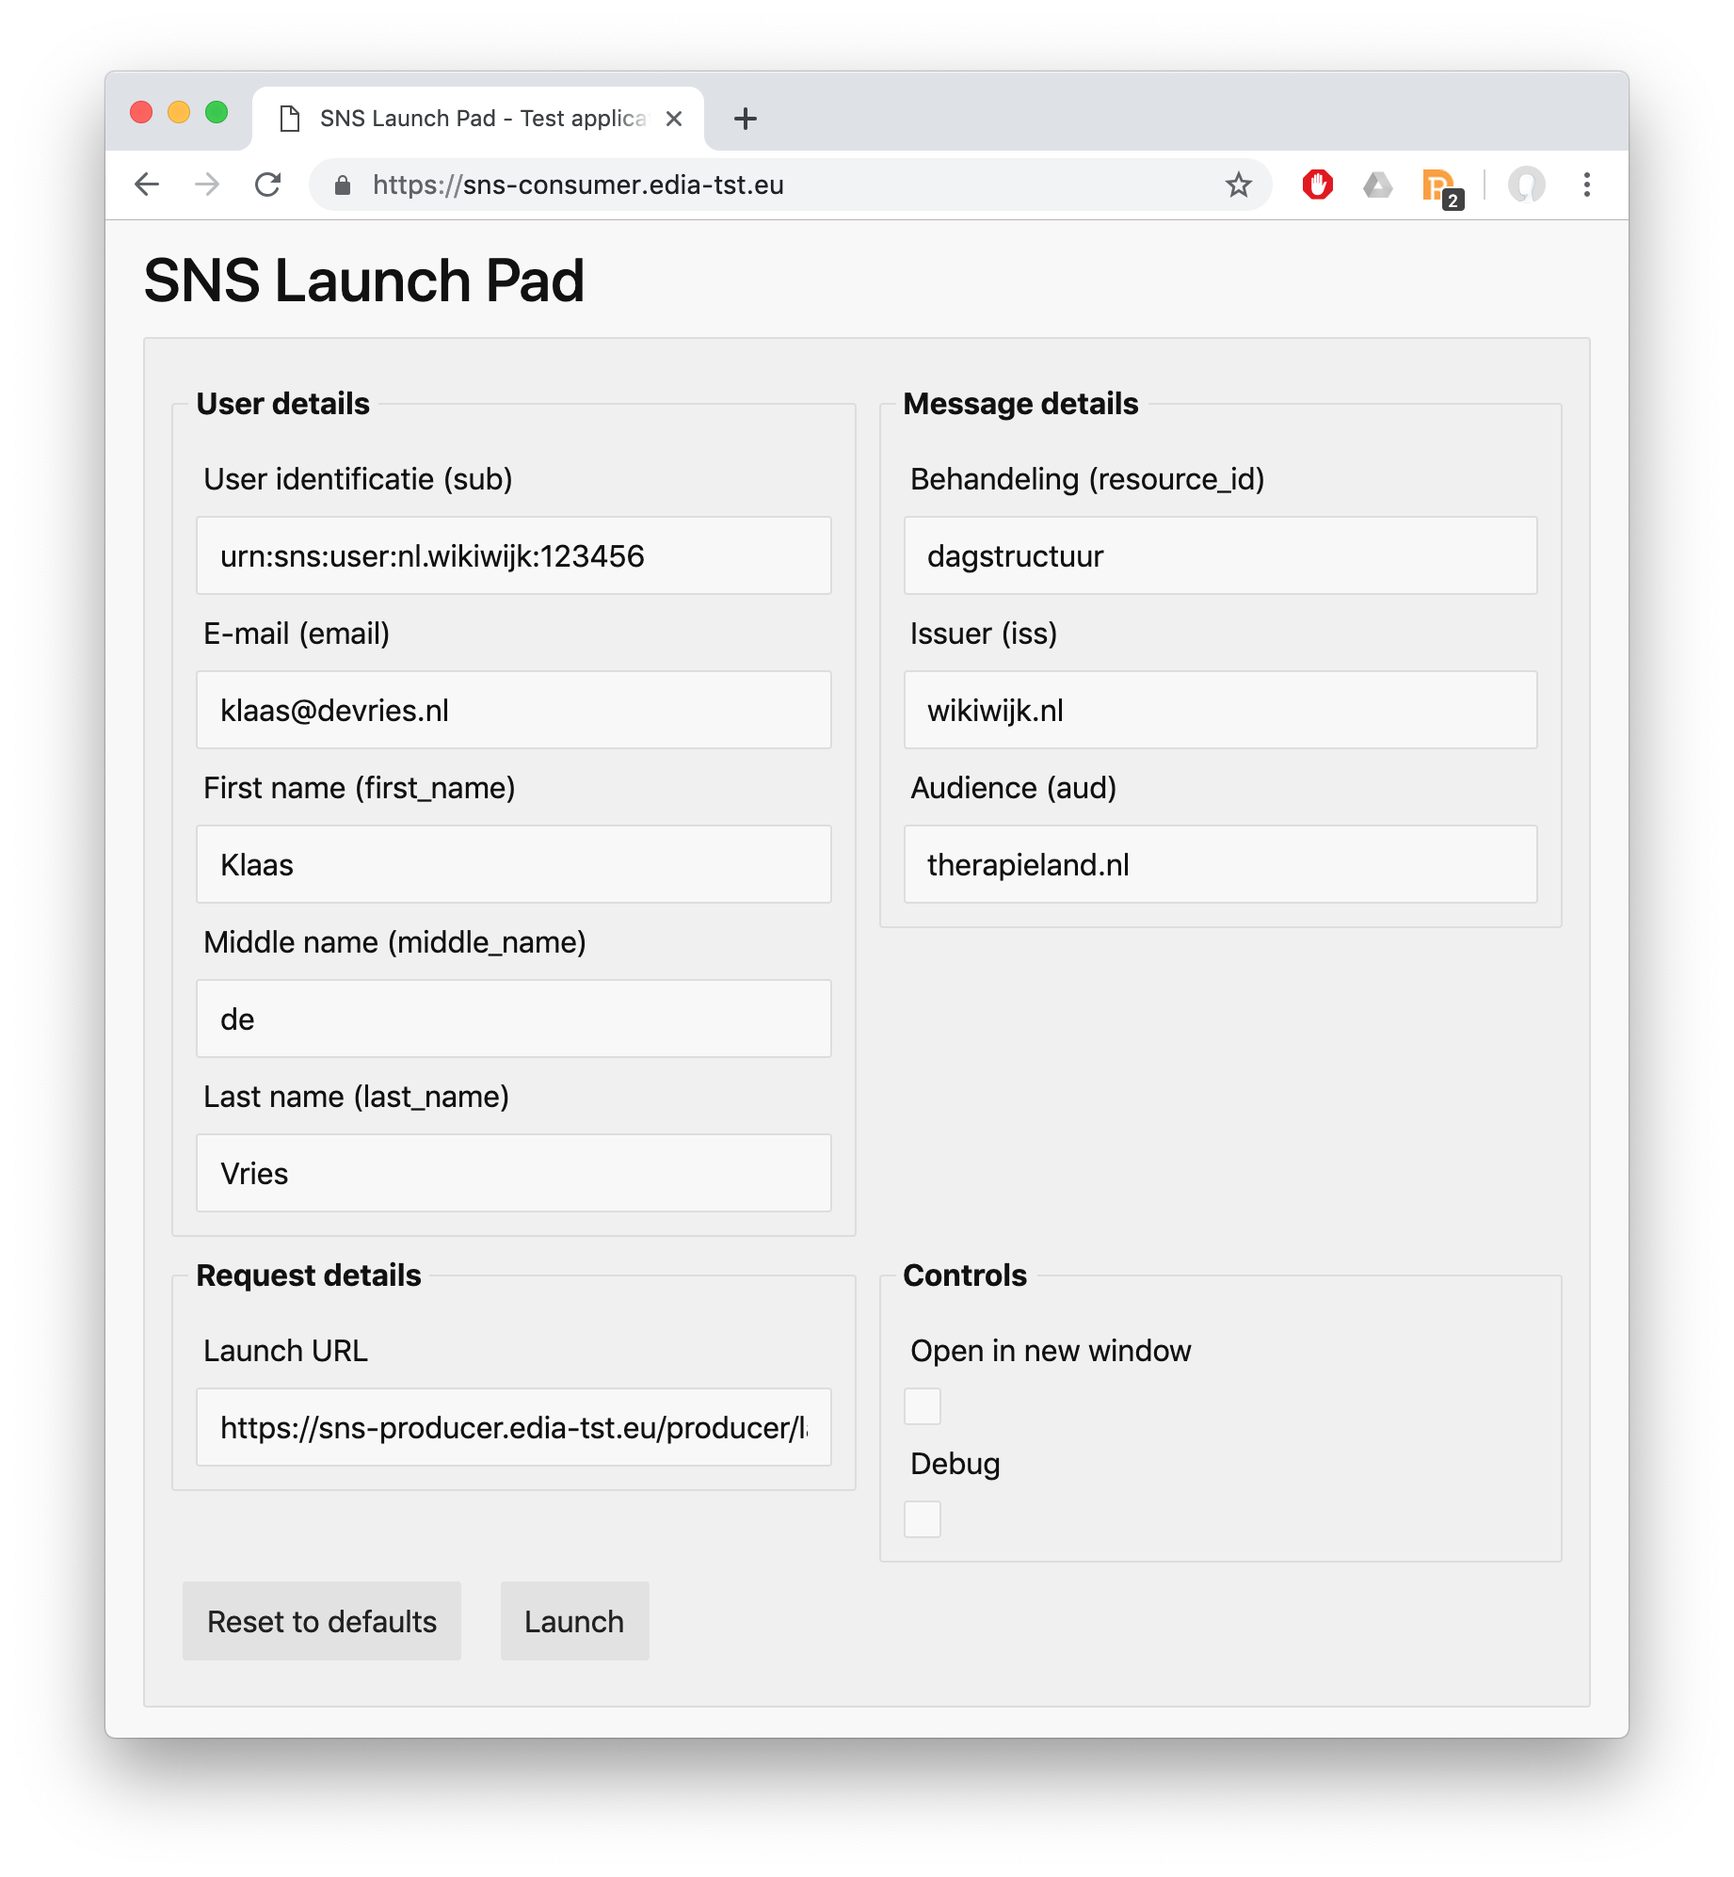
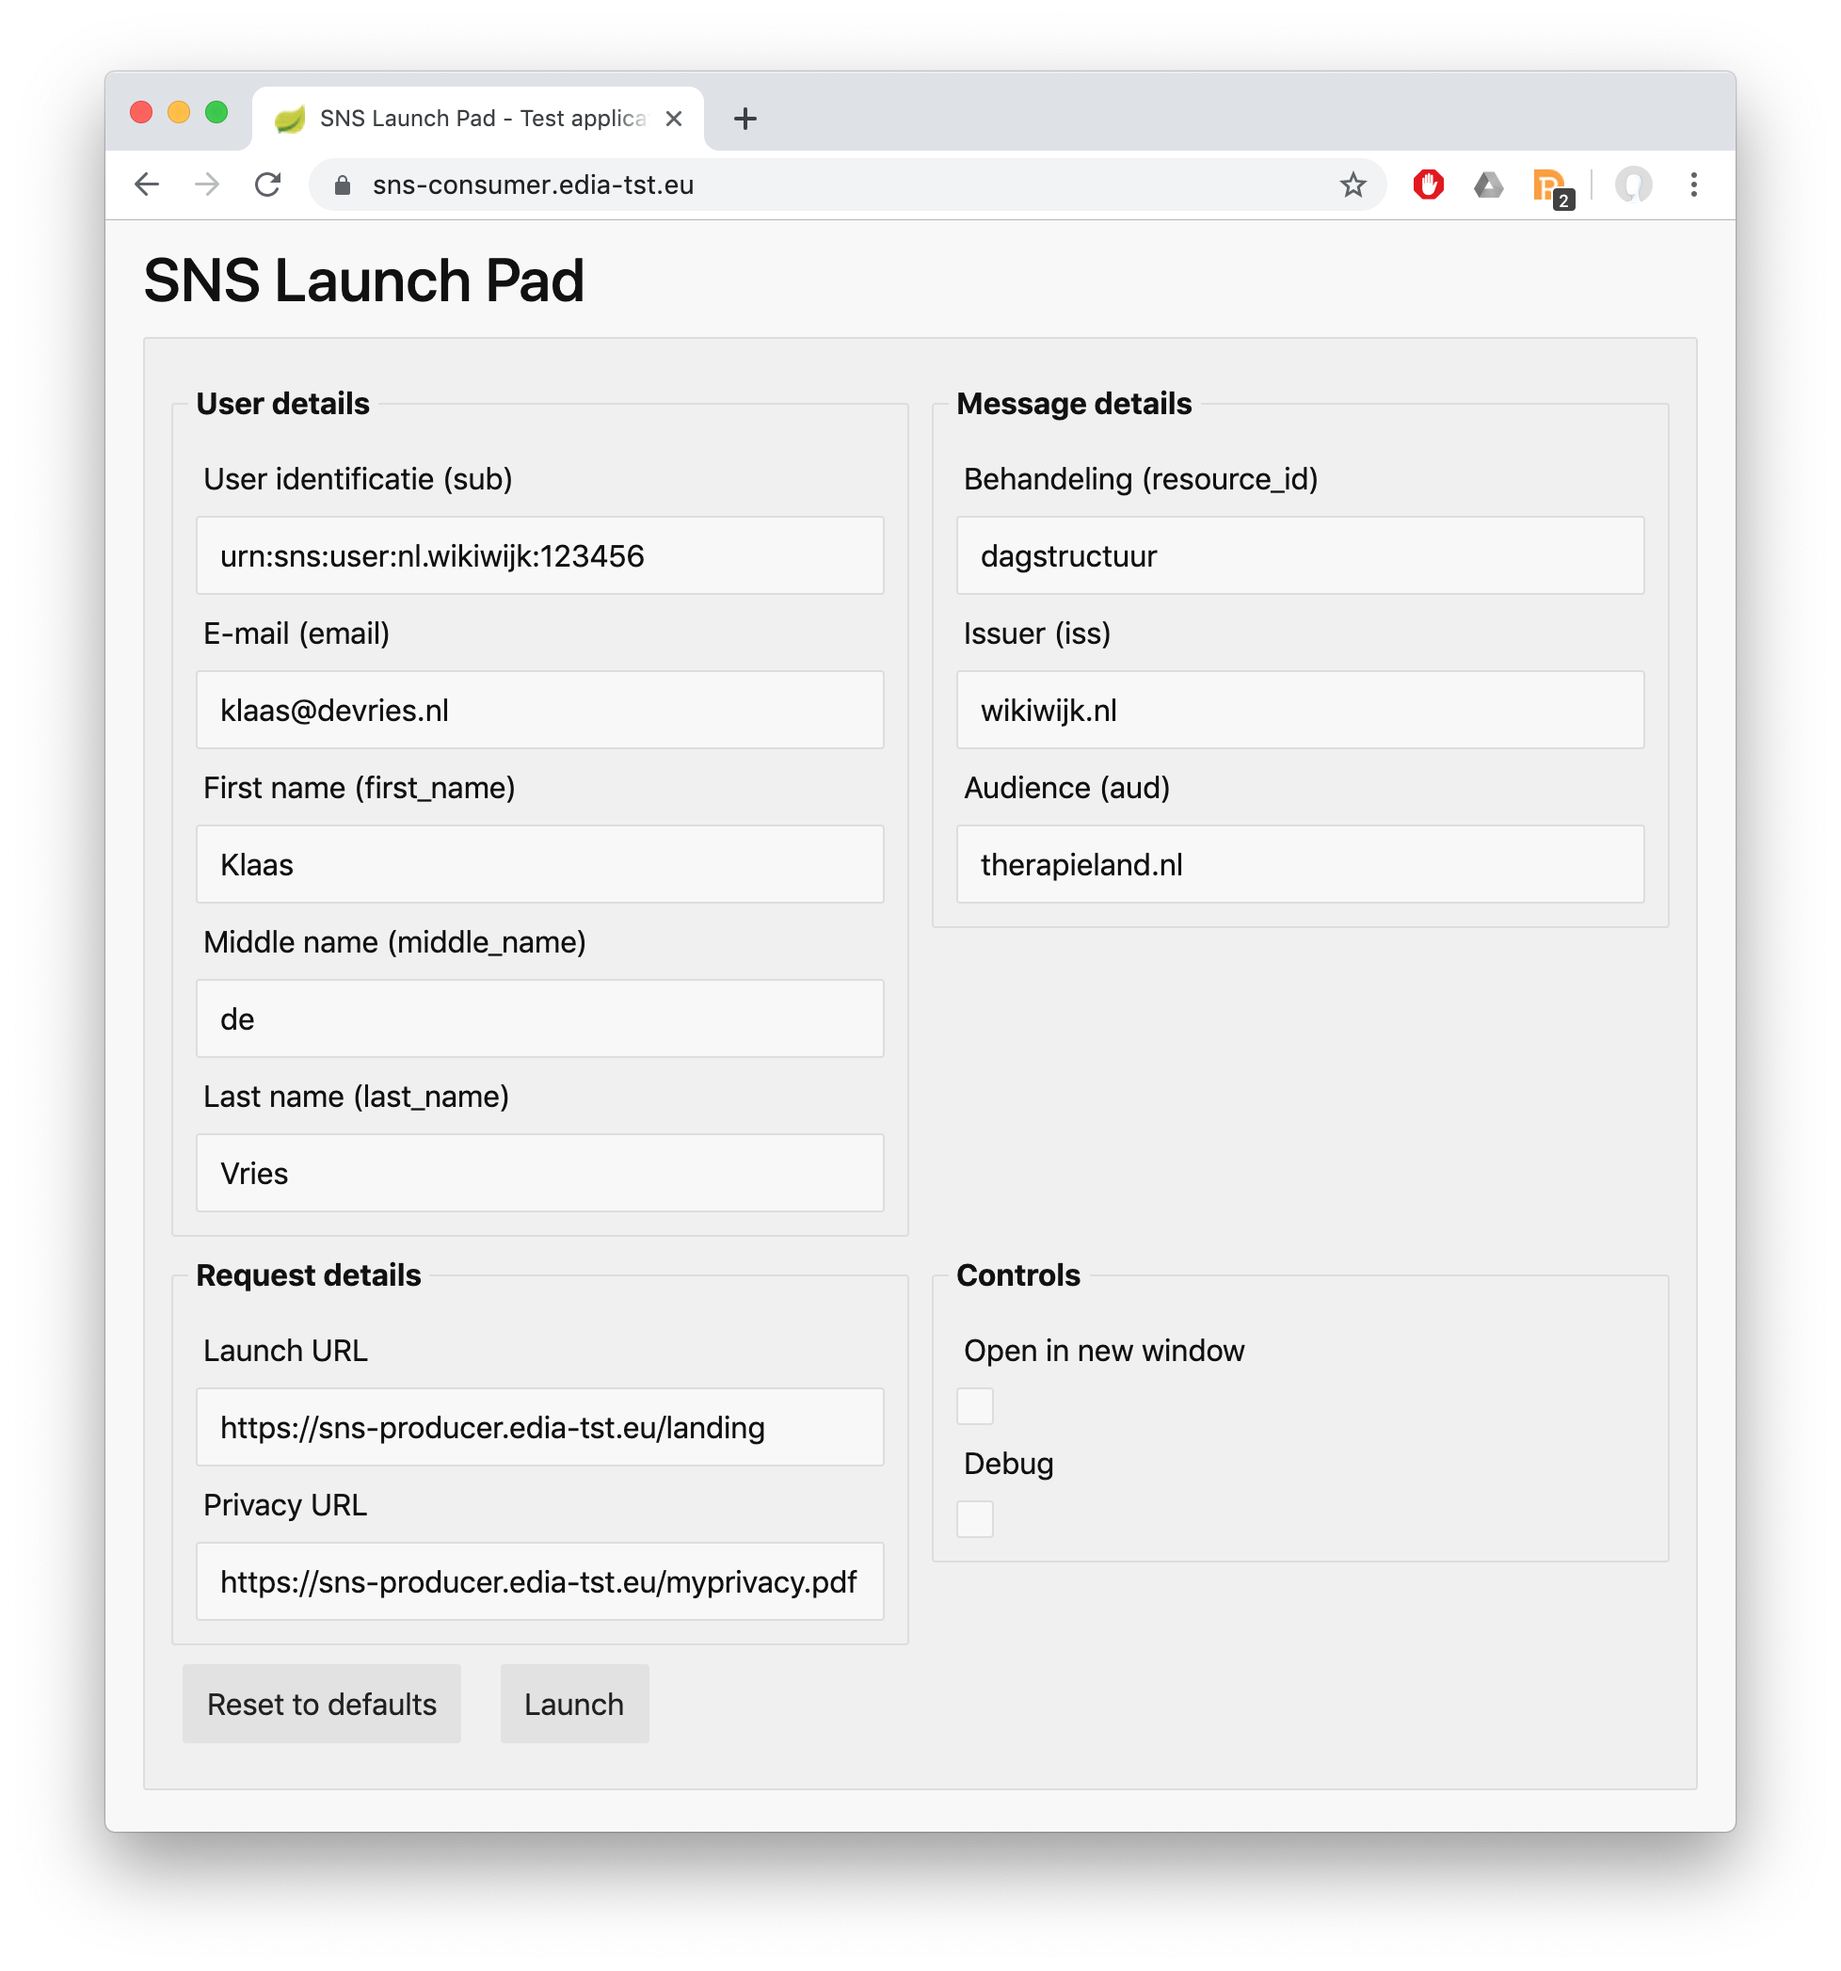
SMB-13, Add privacy policy audience in consentscreen
- Added new image
 - Updated template

diff --git a/README.md b/README.md
@@ -217,6 +217,19 @@ The tool consumer can use as endpoint the following:
 
 # Appendix D, redirect page reference implementation
 
+The html below is a reference implementation of the redirect page. This page contains the following variables that should be injected
+into the html at the rendering stage (server side).
+* **JWT_TOKEN**, the JWT token
+* **ACTION**, this is typically the endpoint of the producer.
+* **PRIVACY_URL**, the link to the privacy statement of the producer. 
+
+In this reference implementation of the redirect page, the JavaScript reads the following parameters from the JWT token
+and renders them on the page
+* **aud** (required), the audience of the JWT token, the name of the producer.
+* **first_name** (optional), The first name of the user.
+* **last_name** (optional), The last name of the user.
+* **email** (optional), The email of the user.
+
 ```html
 <!doctype html>
 <html lang="nl">
@@ -273,6 +286,10 @@ The tool consumer can use as endpoint the following:
 
         </tbody>
     </table>
+
+    <div class="section">
+        <p><a target="_blank" href="PRIVACY_URL">Lees hier meer over het privacybeleid van {aud}</a></p>
+    </div>
 
     <div class="section">
         <button id="cancel" class="waves-effect waves-teal btn-flat">Annuleren<i class="material-icons right">cancel</i>
